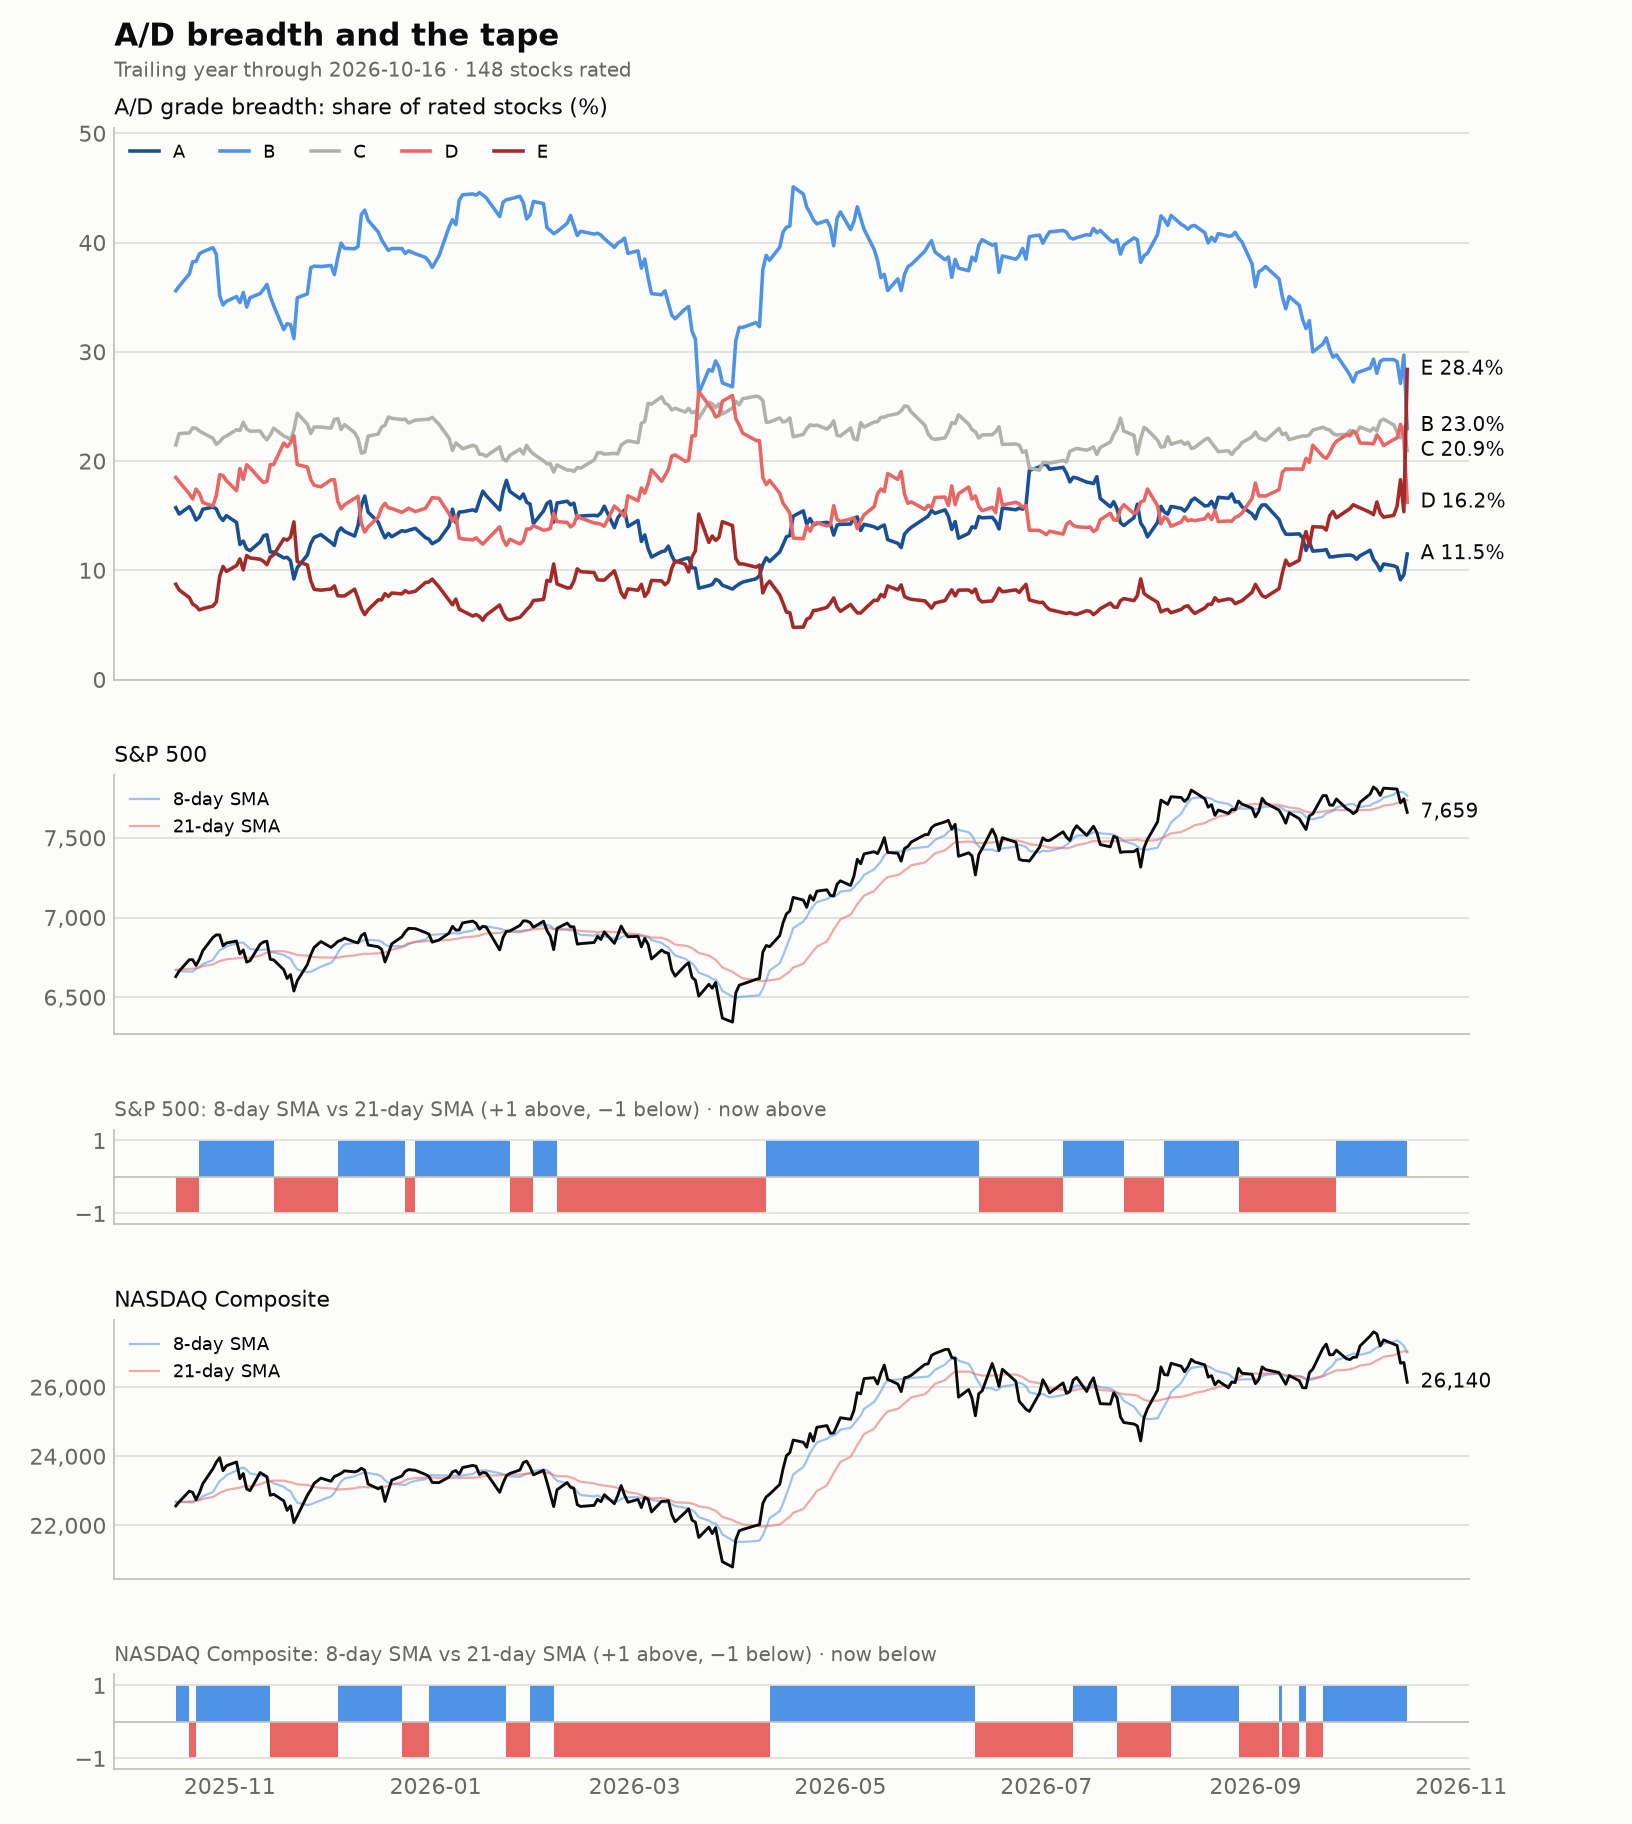
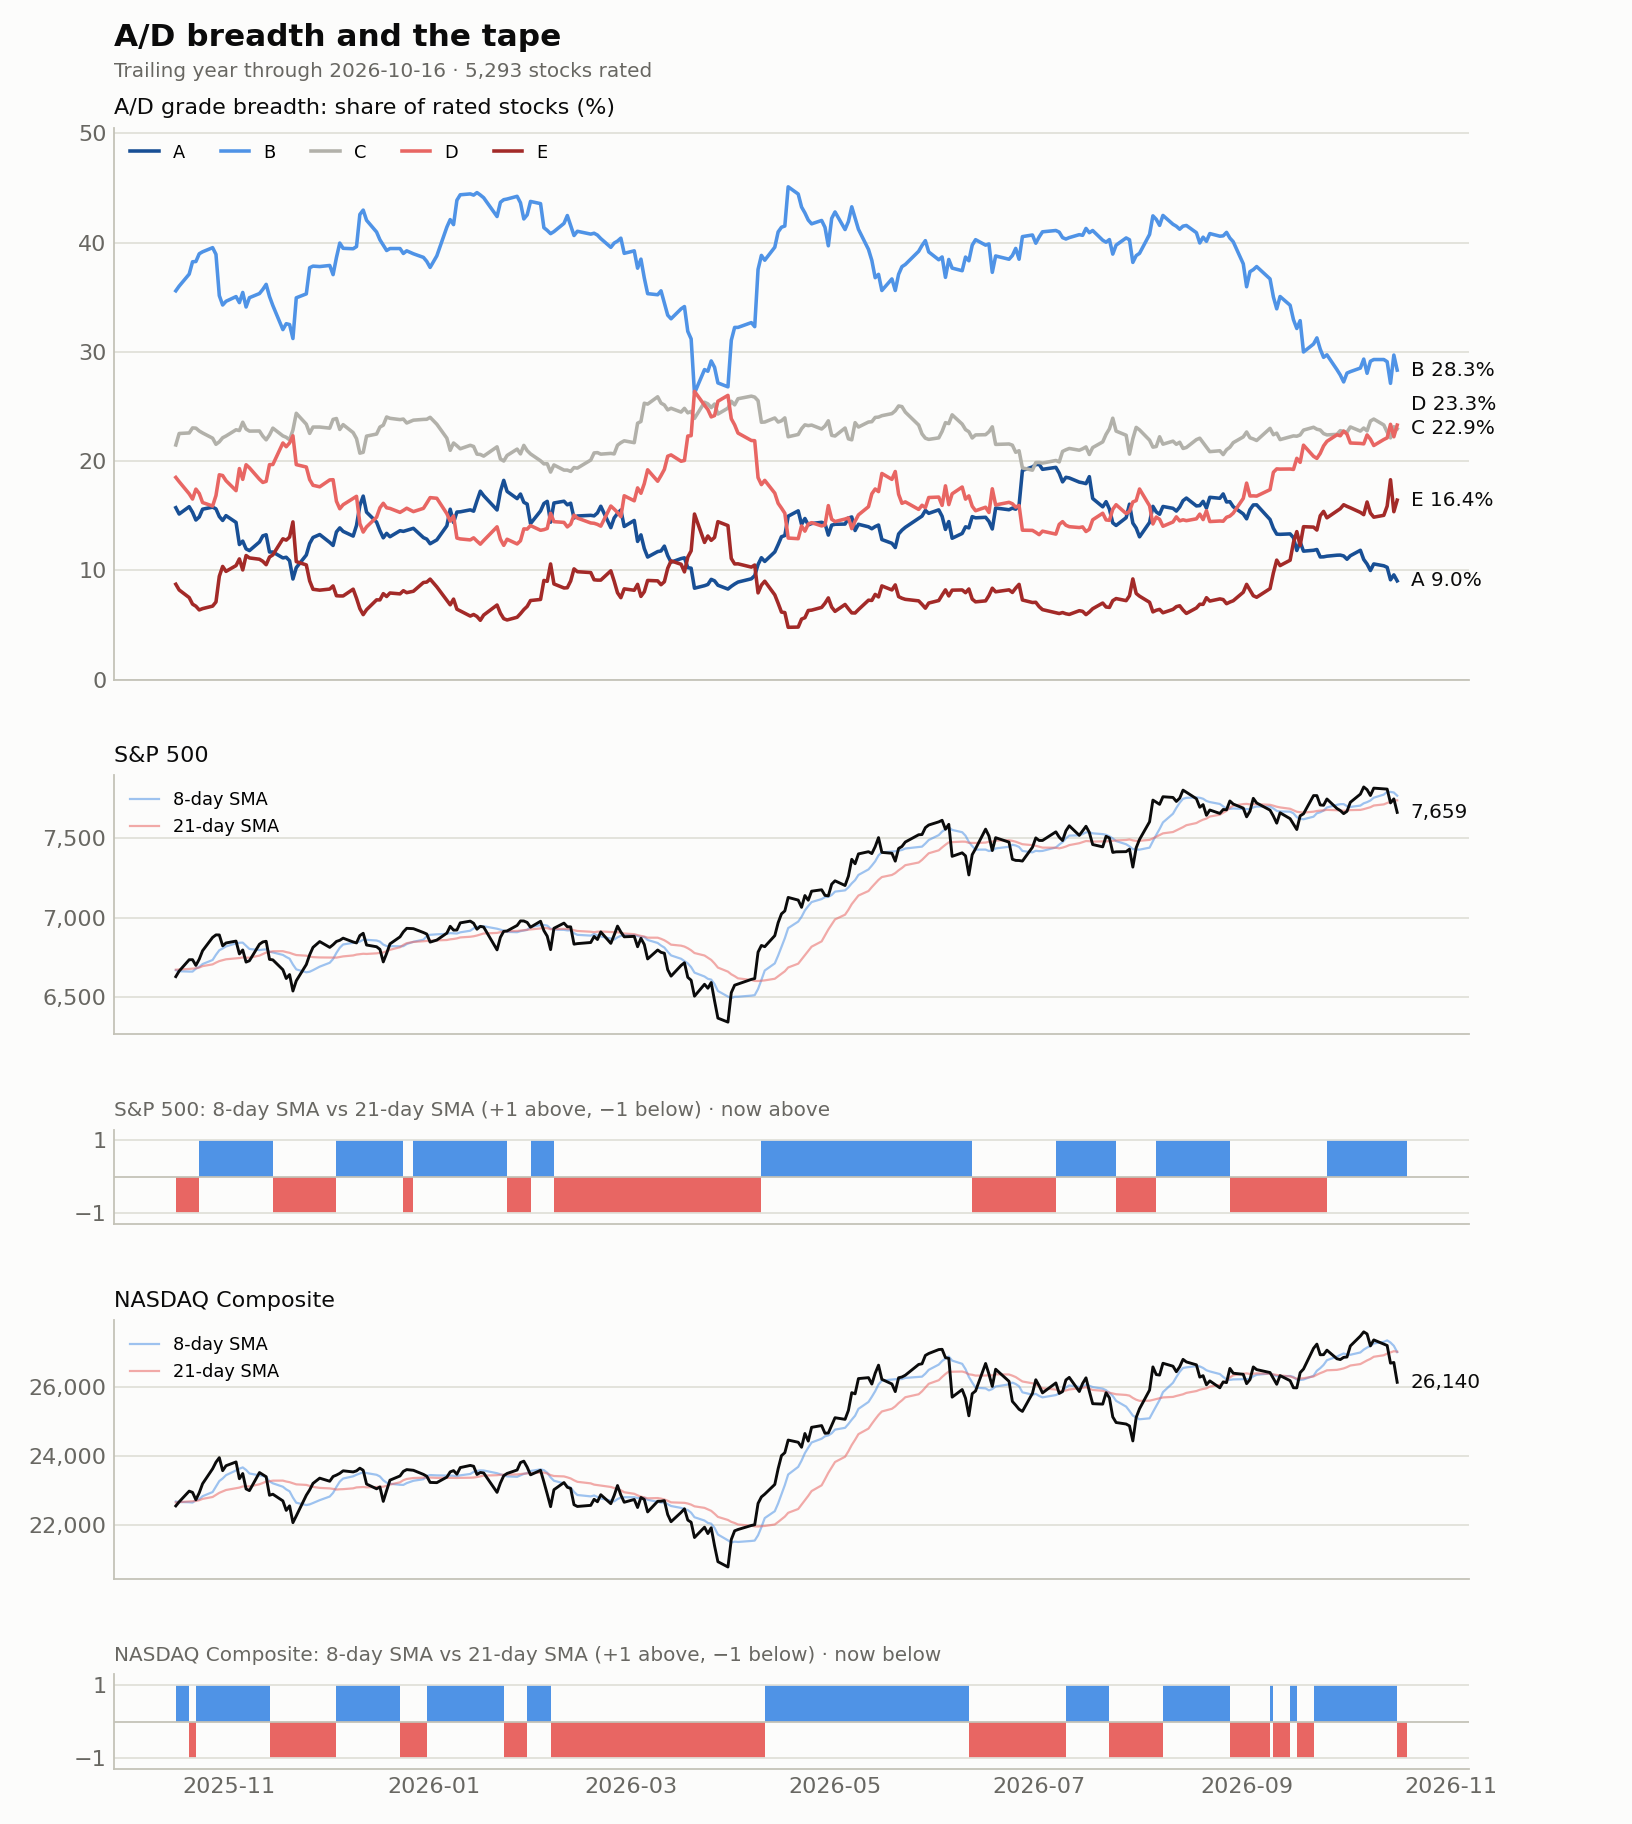
Breadth: skip sparse sessions, repair 2026-10-16; fix EPS panel spike
Yahoo served Friday's bar for only ~130 symbols around 8 PM ET, and the
weekly publish and a later daily run overwrote a good 2026-10-16 row with
it (122/148 rated, E ~28%). A session rating under 90% of the recent
median is now skipped, keeping any row already written. Friday's row is
recomputed from a full download (5,293 rated).

The SMA step strips repeat their last value one session on, so a flip on
the latest session is visible.

Weekly charts: every pre-window EPS report was plotted at x=0, drawing a
vertical spike through the whole history and squashing the y-axis. Only
the latest pre-window value is drawn there now.

diff --git a/open8585/breadth.py b/open8585/breadth.py
@@ -22,6 +22,8 @@ from .ratings import ad_score_history
 LETTERS = "ABCDE"
 BACKFILL_START = pd.Timestamp("2025-01-02")
 REVISE_SESSIONS = 2
+# a session rating fewer than this share of the recent median is a data gap
+SPARSE_FRACTION = 0.9
 # Diverging: accumulation blue, neutral gray C, distribution red.
 COLORS = {"A": "#184f95", "B": "#4f93e6", "C": "#b2b1aa", "D": "#e86663", "E": "#a32a28"}
 SURFACE, INK, MUTED, GRID = "#fcfcfb", "#0b0b0b", "#686762", "#e1e0d9"
@@ -139,8 +141,12 @@ def plot(history: pd.DataFrame, path: Path, indexes: pd.DataFrame) -> None:
         price_ax.yaxis.set_major_formatter(matplotlib.ticker.StrMethodFormatter("{x:,.0f}"))
 
         _style(step_ax)
-        step_ax.fill_between(dates, 0, signal.clip(lower=0), step="post", color=UP, linewidth=0)
-        step_ax.fill_between(dates, 0, signal.clip(upper=0), step="post", color=DOWN, linewidth=0)
+        # repeat the last value one session on, so a flip on the latest
+        # session gets width instead of vanishing at the right edge
+        step_x = dates.append(pd.DatetimeIndex([dates[-1] + pd.offsets.BDay(1)]))
+        step_y = pd.concat([signal, signal.iloc[-1:]]).to_numpy()
+        step_ax.fill_between(step_x, 0, np.clip(step_y, 0, None), step="post", color=UP, linewidth=0)
+        step_ax.fill_between(step_x, 0, np.clip(step_y, None, 0), step="post", color=DOWN, linewidth=0)
         step_ax.set_ylim(-1.3, 1.3)
         step_ax.set_yticks([-1, 1])
         step_ax.axhline(0, color="#c3c2b7", linewidth=0.8)
@@ -177,6 +183,16 @@ def update(prices: pd.DataFrame, csv_path: Path, start: pd.Timestamp = BACKFILL_
         history, added = recent, len(recent)
     else:
         kept = existing[existing["date"] < start]
+        # Yahoo sometimes serves the latest bar for only a sliver of the
+        # universe (seen ~8 PM ET); such a session is not breadth. Keep the
+        # row we already had, or wait for a later run to add it.
+        floor = SPARSE_FRACTION * kept["rated"].tail(5).median() if len(kept) else 0
+        sparse = recent["rated"] < floor
+        for _, row in recent[sparse].iterrows():
+            print(f"skipping sparse session {row['date']:%Y-%m-%d}: {row['rated']} rated "
+                  f"(< {floor:,.0f})")
+        prior = existing[existing["date"].isin(recent.loc[sparse, "date"])]
+        recent = pd.concat([recent[~sparse], prior]).sort_values("date")
         history = pd.concat([kept, recent], ignore_index=True)
         added = int((recent["date"] > existing["date"].max()).sum())
         unchanged = (len(history) == len(existing)

diff --git a/open8585/charts.py b/open8585/charts.py
@@ -160,14 +160,13 @@ def render_chart(symbol: str, name: str, daily: pd.DataFrame, spx: pd.Series,
 
     # EPS panel: trailing-twelve-month EPS as a step line, own $ scale
     if axe is not None:
-        pos = wk.index.searchsorted(eps_ttm.index)
-        vals, xs = [], []
-        pre = eps_ttm[eps_ttm.index < wk.index[0]]
-        if len(pre):
-            xs.append(0)
-            vals.append(pre.iloc[-1])
-        for p, v in zip(pos, eps_ttm.to_numpy()):
-            if 0 <= p < len(wk):
+        # reports before the window collapse to their latest value at x=0;
+        # plotting each one there drew a vertical line through all history
+        pre = eps_ttm[eps_ttm.index <= wk.index[0]]
+        xs, vals = ([0], [pre.iloc[-1]]) if len(pre) else ([], [])
+        inside = eps_ttm[eps_ttm.index > wk.index[0]]
+        for p, v in zip(wk.index.searchsorted(inside.index), inside.to_numpy()):
+            if p < len(wk):
                 xs.append(p)
                 vals.append(v)
         if xs:
